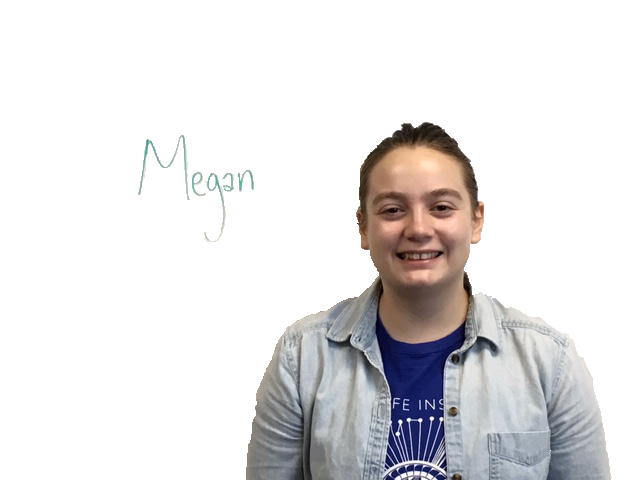
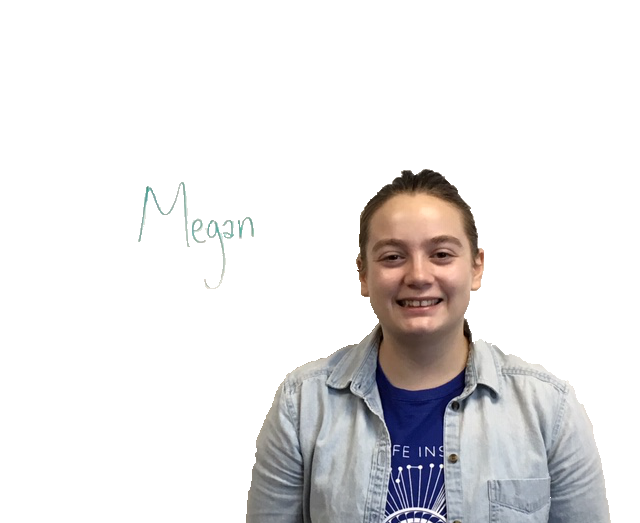
Review comments II

Changed region(s): [[0.375, 0.25, 0.9375, 1.0], [0.2188, 0.2812, 0.4062, 0.5312], [0.3125, 0.5312, 0.3438, 0.5625]]

diff --git a/opportunities/past_opportunities.html b/opportunities/past_opportunities.html
@@ -15,7 +15,7 @@ section_id: past opportunities
 <div class='row'>
   <div class='large-12 medium-12 columns'>
     <div class='mod modProjectPost'>
-      <section class="box">
+      <section class="box" style="text-align: left">
         <header>
           <h3 style="color: var(--primary-color);">Fall 2019 - CDH 580: Computational Humanities Lab</h3>
         </header>
@@ -29,7 +29,7 @@ section_id: past opportunities
   
   <div class='large-12 medium-12 columns'>
     <div class='mod modProjectPost'>
-      <section class="box">
+      <section class="box" style="text-align: left">
         <header>
           <h3 style="color: var(--primary-color);">May 23-26, 2017: Webapp Development with Spring</h3>
         </header>
@@ -44,7 +44,7 @@ section_id: past opportunities
 
   <div class='large-12 medium-12 columns'>
     <div class='mod modProjectPost'>
-      <section class="box">
+      <section class="box" style="text-align: left">
         <header>
           <h3 style="color: var(--primary-color);">Spring 2017: Interdisciplinary Analytics and Application Development Seminar</h3>
         <p>
@@ -66,7 +66,7 @@ section_id: past opportunities
 
   <div class='large-12 medium-12 columns'>
     <div class='mod modProjectPost'>
-      <section class="box">
+      <section class="box" style="text-align: left">
         <h3 style="color: var(--primary-color);">Compete in the First Semi-Annual DigInG Hackathon! 23-24 January, 2016</h3>
         <p>
 
@@ -93,7 +93,7 @@ section_id: past opportunities
 
   <div class='large-12 medium-12 columns'>
     <div class='mod modProjectPost'>
-      <section class="box">
+      <section class="box" style="text-align: left">
         <h3 style="color: var(--primary-color);">Spring 2016: Research Methods and Software Engineering Workshop for Computational Humanities and Knowledge Systems</h3>
         <h4>BIO/HPS 498/591</h4>
         <p>We’re looking for motivated undergraduate and early Masters/PhD students to participate in a 3-credit computational humanities research and software development workshop this fall. If you’re interested in doing research at the interface of computer science and the humanities (especially history and philosophy of science), this is a great way to get training and hands-on experience in both new and established projects. We’re especially eager to recruit students who wish to develop their own projects over several semesters, e.g. as part of a thesis or chapter. This course is somewhat unusual: instead of exams, reading, or any other homework, we’ll meet for 9 hours each week for a mix of instruction and team-based workshop activities. This course will bring together computer science (see below) and humanities students to work on software development and research projects. If you have any questions about the course, or other ways to get involved with computational humanities research at ASU, please don’t hesitate to contact us!
@@ -141,7 +141,7 @@ section_id: past opportunities
 
   <div class='large-12 medium-12 columns'>
     <div class='mod modProjectPost'>
-      <section class="box">
+      <section class="box" style="text-align: left">
         <h3 style="color: var(--primary-color);">Fall 2015: Research Methods and Software Engineering Workshop for Computational Humanities and Knowledge Systems</h3>
       </header>
       <h4>BIO/HPS 498/591, CSE 598</h4>

diff --git a/css/style.css b/css/style.css
@@ -3420,7 +3420,7 @@ body {
   line-height: 2.5rem;
 }
 .modTeamMember img {
-  width: 70%;
+  height: 260px;
   border-radius: 15px;
   margin-bottom: 15px;
 }
@@ -4279,7 +4279,7 @@ dd {
 
 .box{
   padding: .75em .75em 0em .75em;
-  text-align: left;
+  text-align: center;
 }
 
 .label{ display: none;}
@@ -4388,12 +4388,8 @@ h2 {
   height: 60px;
 }
 
-dt {
+dt,dd {
   color: var(--headings);
-}
-
-dd {
-  color: var(--p2s);
 }
 
 .member-name {
@@ -4404,11 +4400,20 @@ dd {
 .grid-2 {
   display: grid;
   grid-template-columns: auto auto auto auto;
+  margin-bottom: 120px;
 }
 
 .pull-right {
   float: right;
   color: var(--p2s);
+}
+
+.member-img {
+  width: 200px;
+  height: 160px;
+  overflow: hidden;
+  margin: auto;
+  border-radius: 5px;
 }
 
 table tr:nth-of-type(even) {

diff --git a/_includes/alumni.html b/_includes/alumni.html
@@ -59,7 +59,7 @@
             <dt>Sanjana Vasudevan-</dt><dd> Software Developer</dd>
             <dt> SatyaSwaroop Boddu- </dt><dd> Software Engineer at EPIC Systems</dd>
             <dt>  Sayalee Mehendale-</dt><dd> Software Engineer at Cisco Systems</dd>
-            <dt> SBianca Zietal- </dt><dd> Researcher (Alumna)</dd>
+            <dt> Bianca Zietal- </dt><dd> Researcher (Alumna)</dd>
             <dt>  Simbarashe Sithole</dt><dd><pre>  </pre></dd>
             <dt> Sowjanya Ambati- </dt><dd> Software Developer (Alumna)</dd>
             <dt>Supraj Kolluri-</dt><dd>Amazon</dd>

diff --git a/people/index.html b/people/index.html
@@ -66,7 +66,9 @@ section_id: people
                 {% for member in item.members %}
                   <div class="row" style="text-align: center;">
                     <section class="box">
-                      <img style="border-radius: 5px" width="200px" src="{{ member.img }}" />
+                      <div class="member-img">
+                        <img src="{{ member.img }}" />
+                      </div>
                       <header class="headspace">
                         <h4 class="member-name">{{ member.name }}</h4>
                       </header>

diff --git a/_layouts/MoU.html b/_layouts/MoU.html
@@ -10,8 +10,8 @@ section_id: mou
 	      {% include section-header.html title="Memorandum of Understanding" %}
 	      <div class='spacing'></div>
 	    </div>
-	    <div>
-	    	<a href="/doc/DigInG-MoU-2020.pdf" download><button style="border-radius: 5px; margin-right: -50%"><i class="fa fa-download"></i> Download file</button></a>
+	    <div style="text-align: right">
+	    	<a href="/doc/DigInG-MoU-2020.pdf" download><button style="border-radius: 5px;"><i class="fa fa-download"></i> Download file</button></a>
 	    </div>
 	    {{ content }}
   </div>

diff --git a/projects/index.html b/projects/index.html
@@ -7,7 +7,8 @@ section_id: projects
 	table tr td{
 		color: var(--headings);
 		font-size: 13px;
-		background-color: var(--cards)
+		background-color: var(--cards);
+		border: none;
 	}
 
 	td {

diff --git a/mou.md b/mou.md
@@ -15,7 +15,7 @@ layout: MoU
 <p>One way DigInG realizes the third goal is to employ student workers that help developing software and working on other research related tasks. Students are mentored by staff members to improve skills and foster an understanding of employed methods and research software. This means, however, that progress on projects is often slower than would be expected of a full-time professional software developer or data professional. DigInG will always try to meet deadlines and fulfil its promises, but this structure needs to be taken into account when working with DigInG.</p>
 
 <h3>Scope of Expertise and Services</h3>
-<p>There are several ways third parties can work with DigInG. In the simplest case, DigInG’s cyber infrastructure can be used for projects. The different elements of the infrastructure will not be listed here and instead we refer to the DigInG website (http://diging.asu.edu/). We will provide training in the different applications we host and users are invited to submit feature requests for applications to better address their research needs.
+<p>There are several ways third parties can work with DigInG. In the simplest case, DigInG’s cyber infrastructure can be used for projects. The different elements of the infrastructure will not be listed here and instead we refer to the <a href="http://diging.asu.edu/" target="_blank">DigInG website</a>. We will provide training in the different applications we host and users are invited to submit feature requests for applications to better address their research needs.
 
 Beyond that, we also offer consultation for computational and digital research projects. When using DigInG’s consulting services, we can make recommendations regarding tool and method usage, data collection and cleaning processes, and staffing requirements. We recommend using our consulting services as early as the planning stage of new computational research projects to ensure grant proposals include all necessary considerations regarding computational work.
 
@@ -32,3 +32,6 @@ If specific expertise is needed to implement a project, we do, however, offer ou
 
 <h3>Financial contributions</h3>
 <p>While DigInG provides some services free of charge, especially in cases of close collaboration between external projects and DigInG, we will require some financial contributions in certain cases such as “buying” time of a developer or student worker. We welcome joint grant proposals and generally recommend consulting with us before and during the grant writing phase if a collaboration with DigInG is being considered. Since requirements, expectations, and scope of work vary on a case-by-case basis, please contact us to discuss this matter in detail. We welcome students interested in computational humanities work to contact us for guidance and consultation free of charge. </p> 
+
+<h3>Contact</h3>
+<p>Please send an email to <a href="mailto: diging@asu.edu">diging@asu.edu</a> if you have any questions or would like to discuss a potential collaboration.</p>

diff --git a/_posts/2017-08-18-dhtech.md b/_posts/2017-08-18-dhtech.md
@@ -5,7 +5,7 @@ title: DH2017 Pre-Conference Workshop Outcomes
 subtitle: Building a Community for Digital Humanities Software Development
 images: images/20170818/dhtech-page.png
 images_caption: "DHTech Page for Future Awesomeness"
-summary: "On 7 August 2017, the Digital Innovation Group together with the Max Planck Institute for the History of Science hosted a pre-conference workshop at the Digital Humanities Conference 2017 in Montréal. The workshop called “Let’s Develop an Infrastructure for Historical Research Tools” focused on collaboration and integration of digital humanities software and tools."
+excerpt: "On 7 August 2017, the Digital Innovation Group together with the Max Planck Institute for the History of Science hosted a pre-conference workshop at the Digital Humanities Conference 2017 in Montréal. The workshop called “Let’s Develop an Infrastructure for Historical Research Tools” focused on collaboration and integration of digital humanities software and tools."
 ---
 
 AUGUST 7, 2017 — MONTREAL — On 7 August 2017, the Digital Innovation Group together with the Max Planck Institute for the History of Science hosted a pre-conference workshop at the Digital Humanities Conference 2017 in Montréal. The workshop called “Let’s Develop an Infrastructure for Historical Research Tools” focused on collaboration and integration of digital humanities software and tools. The participants were software developers, scholars with programming skills, and project managers from a variety of institutions.

diff --git a/_posts/2016-06-31-diging-has-grown.md b/_posts/2016-06-31-diging-has-grown.md
@@ -5,7 +5,7 @@ title: DigInG goes International
 subtitle: Introducing the expanded DigInG, a cooperation between ASU and the Max Planck Institute for the History of Science
 images: images/20160631/mpiwg.png
 images_caption: "The Max Planck Institute for the History of Science in Berlin, Germany"
-summary: "DigInG has grown! As of June, 2016, the Digital Innovation Group at ASU has merged with software development activities within Department I of the Max Planck Institute for the History of Science in Berlin, Germany to form an efficient and agile software development and innovation unit for computational history of knowledge."
+excerpt: "DigInG has grown! As of June, 2016, the Digital Innovation Group at ASU has merged with software development activities within Department I of the Max Planck Institute for the History of Science in Berlin, Germany to form an efficient and agile software development and innovation unit for computational history of knowledge."
 ---
 
 JUNE 31, 2016 — BERLIN — DigInG has grown! As of June, 2016, the Digital Innovation Group at [ASU](http://diging.asu.edu/index.html) has merged with software development activities within <a href = "https://www.mpiwg-berlin.mpg.de/en/content/Departments-and-Groups" target = "_blank">Department I</a> of the Max Planck Institute for the History of Science in Berlin, Germany to form an efficient and agile software development and innovation unit for computational history of knowledge.

diff --git a/_posts/2017-09-14-rse2017.md b/_posts/2017-09-14-rse2017.md
@@ -5,7 +5,7 @@ title: RSE 2017 in Manchester
 subtitle: Second Research Software Engineer Conference
 images: images/20170914/IMG_1442-sm.jpg
 images_caption: "Is Research Software different than Software?"
-summary: "From September 7 to 8, 2017, the second Research Software Engineer conference was held in Manchester, UK. Julia Damerow attended the conference and presented a poster. The two days were packed with interesting talks about topics such as software reusability, container infrastructures, or open source projects."
+excerpt: "From September 7 to 8, 2017, the second Research Software Engineer conference was held in Manchester, UK. Julia Damerow attended the conference and presented a poster. The two days were packed with interesting talks about topics such as software reusability, container infrastructures, or open source projects."
 ---
 
 SEPTEMBER 7-8, 2017 — MANCHESTER, UK — From September 7 to 8, 2017, the <a href = "http://rse.ac.uk/conf2017/" target = "_blank">second Research Software Engineer conference</a> was held at the Museum for Science and Industry in Manchester, UK. With over 200 attendees the conference was sold out. Julia Damerow attended the conference, presenting a poster about the <a href = "https://diging.atlassian.net/wiki/spaces/GECO/overview" target = "_blank">Giles Ecosystem</a>, a distributed system for text extraction and OCR of documents developed by the Digital Innovation Group.

diff --git a/_posts/2017-06-26-workshop.md b/_posts/2017-06-26-workshop.md
@@ -5,7 +5,7 @@ title: DigInG hosts workshop
 subtitle: Webapp Development with Spring, May 23-26 2017
 images: images/Spring_workshop.png
 images_caption: "Attendees at the 2017 Spring workshop hosted by DigInG"
-summary: "The Digital Innovation Group (DigInG) hosted a 4-day workshop at ASU. The workshop covered an introduction to Spring and Kafka, working with GitHub, some lectures on best practices and software development, and a lot of coding. Attendees received a highly interactive, hands-on development experience using Java and the Spring Framework."
+excerpt: "The Digital Innovation Group (DigInG) hosted a 4-day workshop at ASU. The workshop covered an introduction to Spring and Kafka, working with GitHub, some lectures on best practices and software development, and a lot of coding. Attendees received a highly interactive, hands-on development experience using Java and the Spring Framework."
 ---
 
 JUNE 26, 2017 — Tempe — The Digital Innovation Group (DigInG) hosted a 4-day workshop at ASU. The workshop covered an introduction to Spring and Kafka, working with GitHub, some lectures on best practices and software development, and a lot of coding. Attendees received a highly interactive, hands-on development experience using Java and the Spring Framework.
